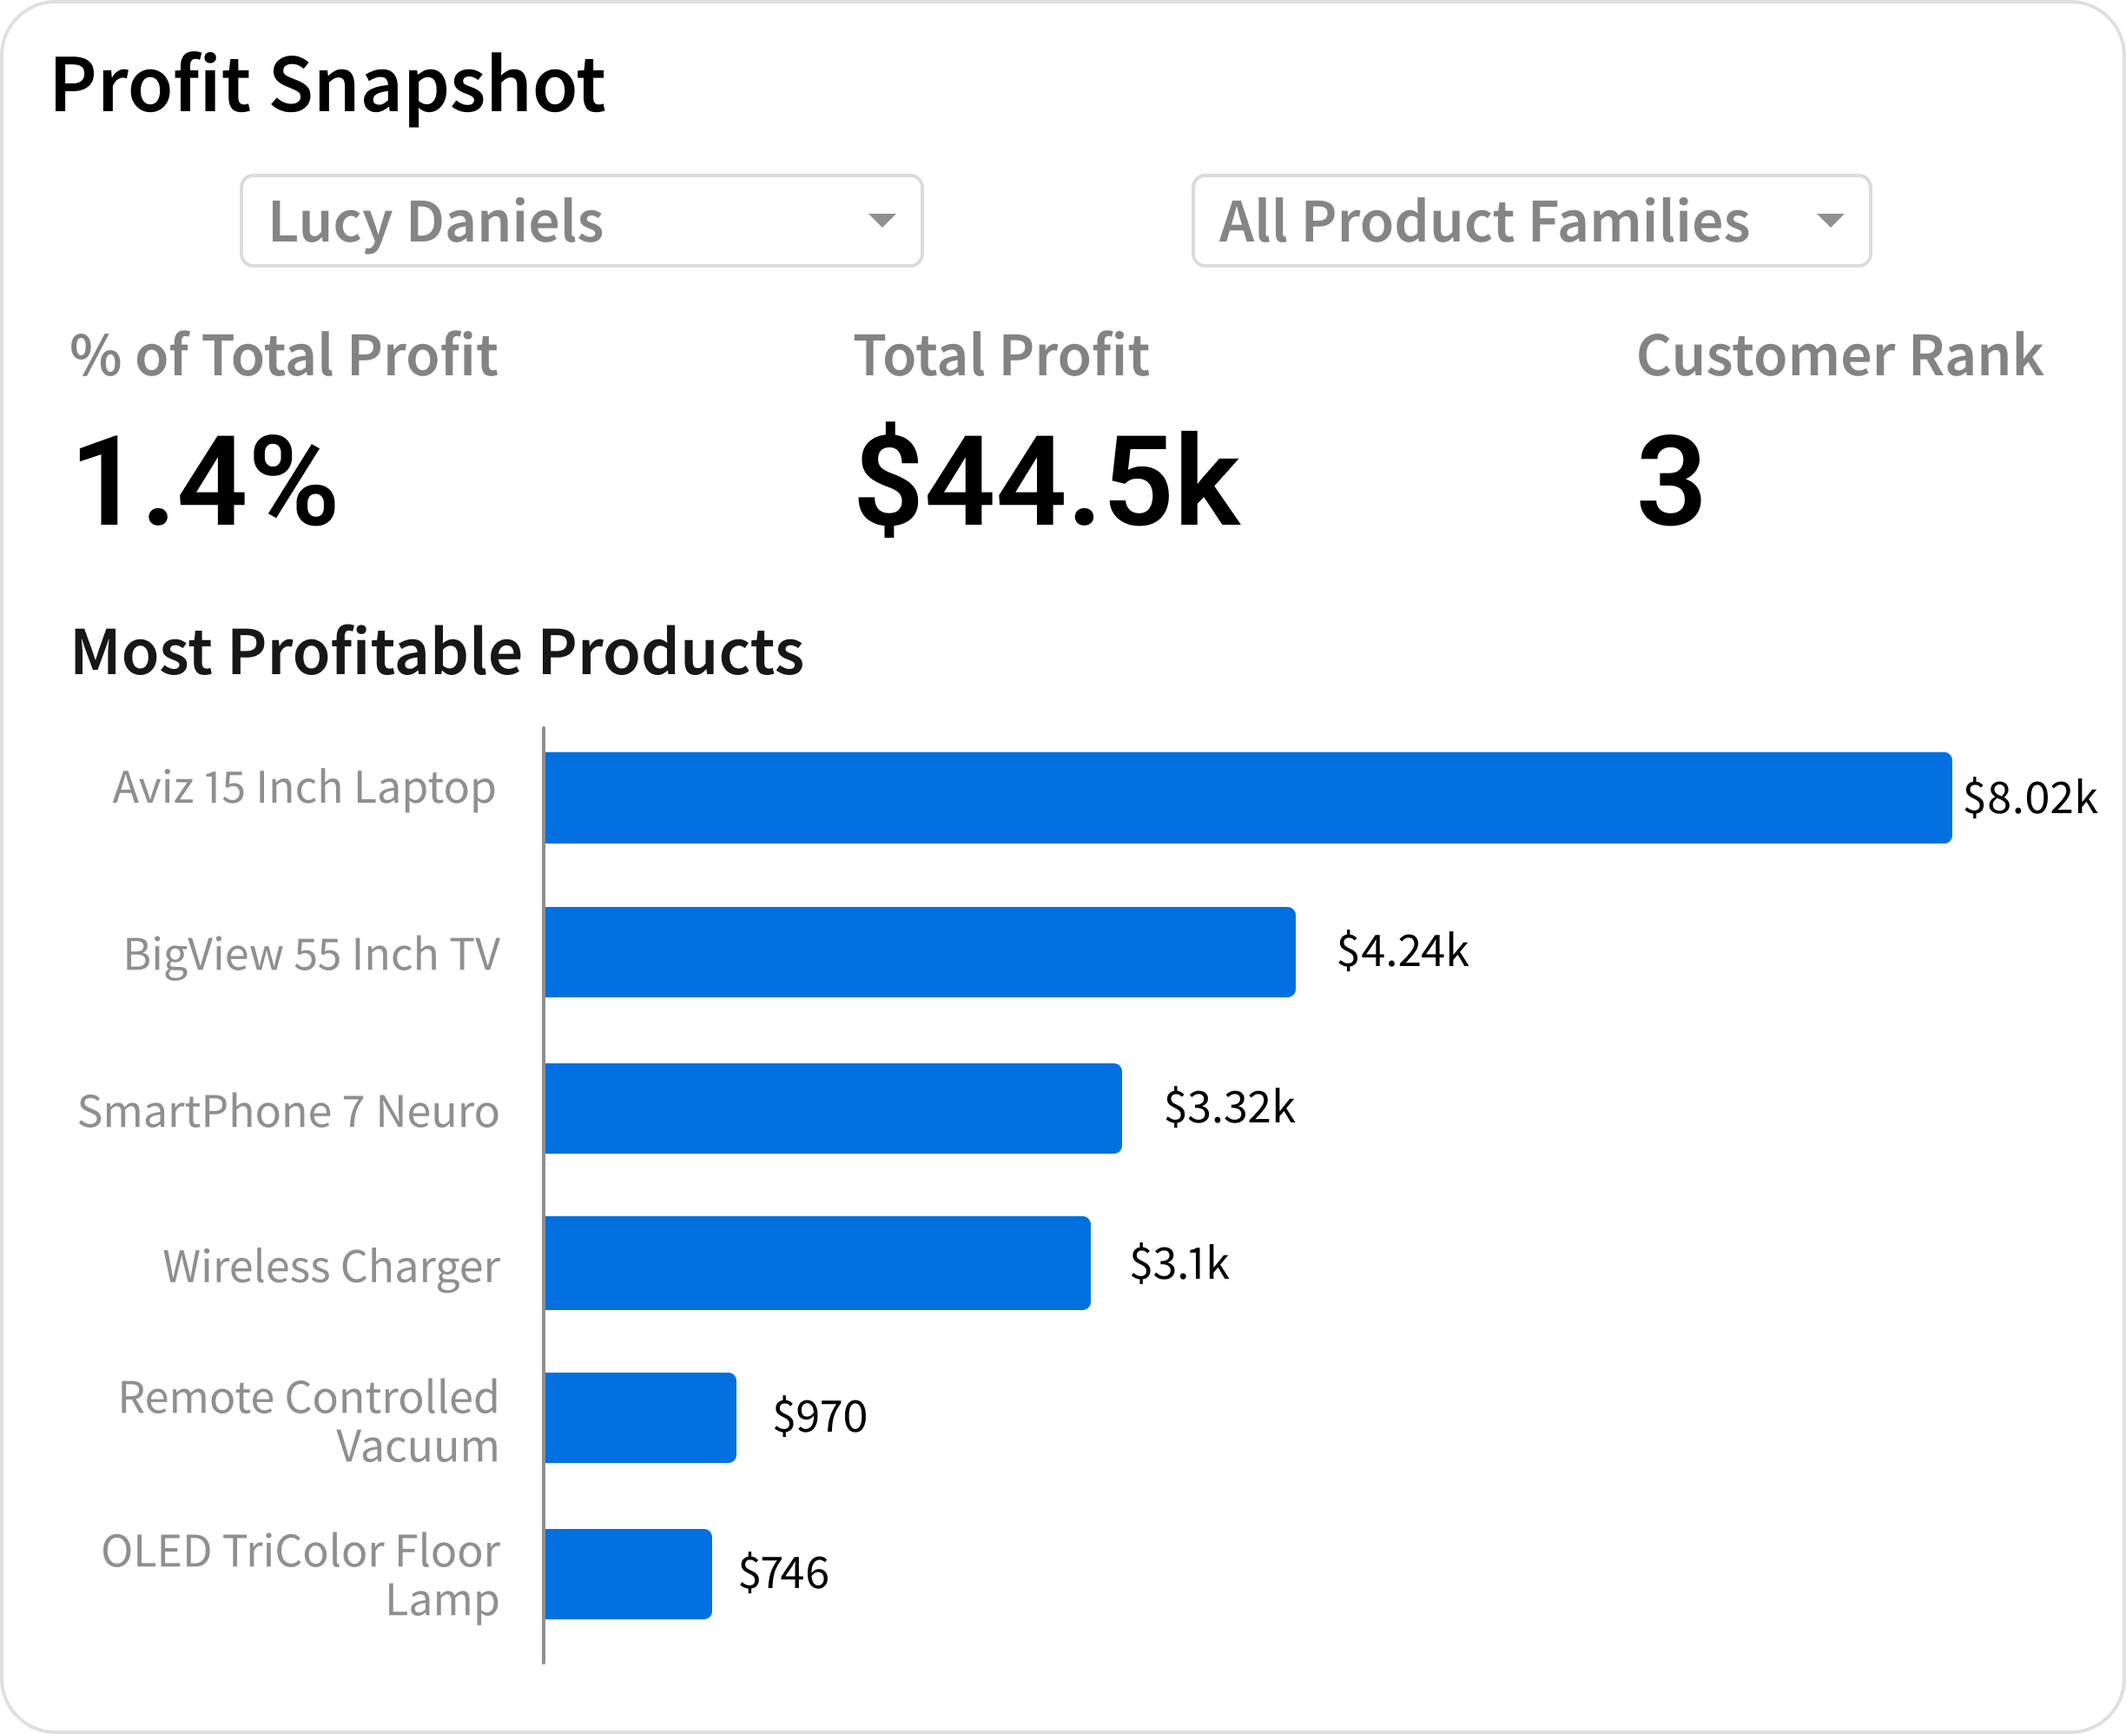
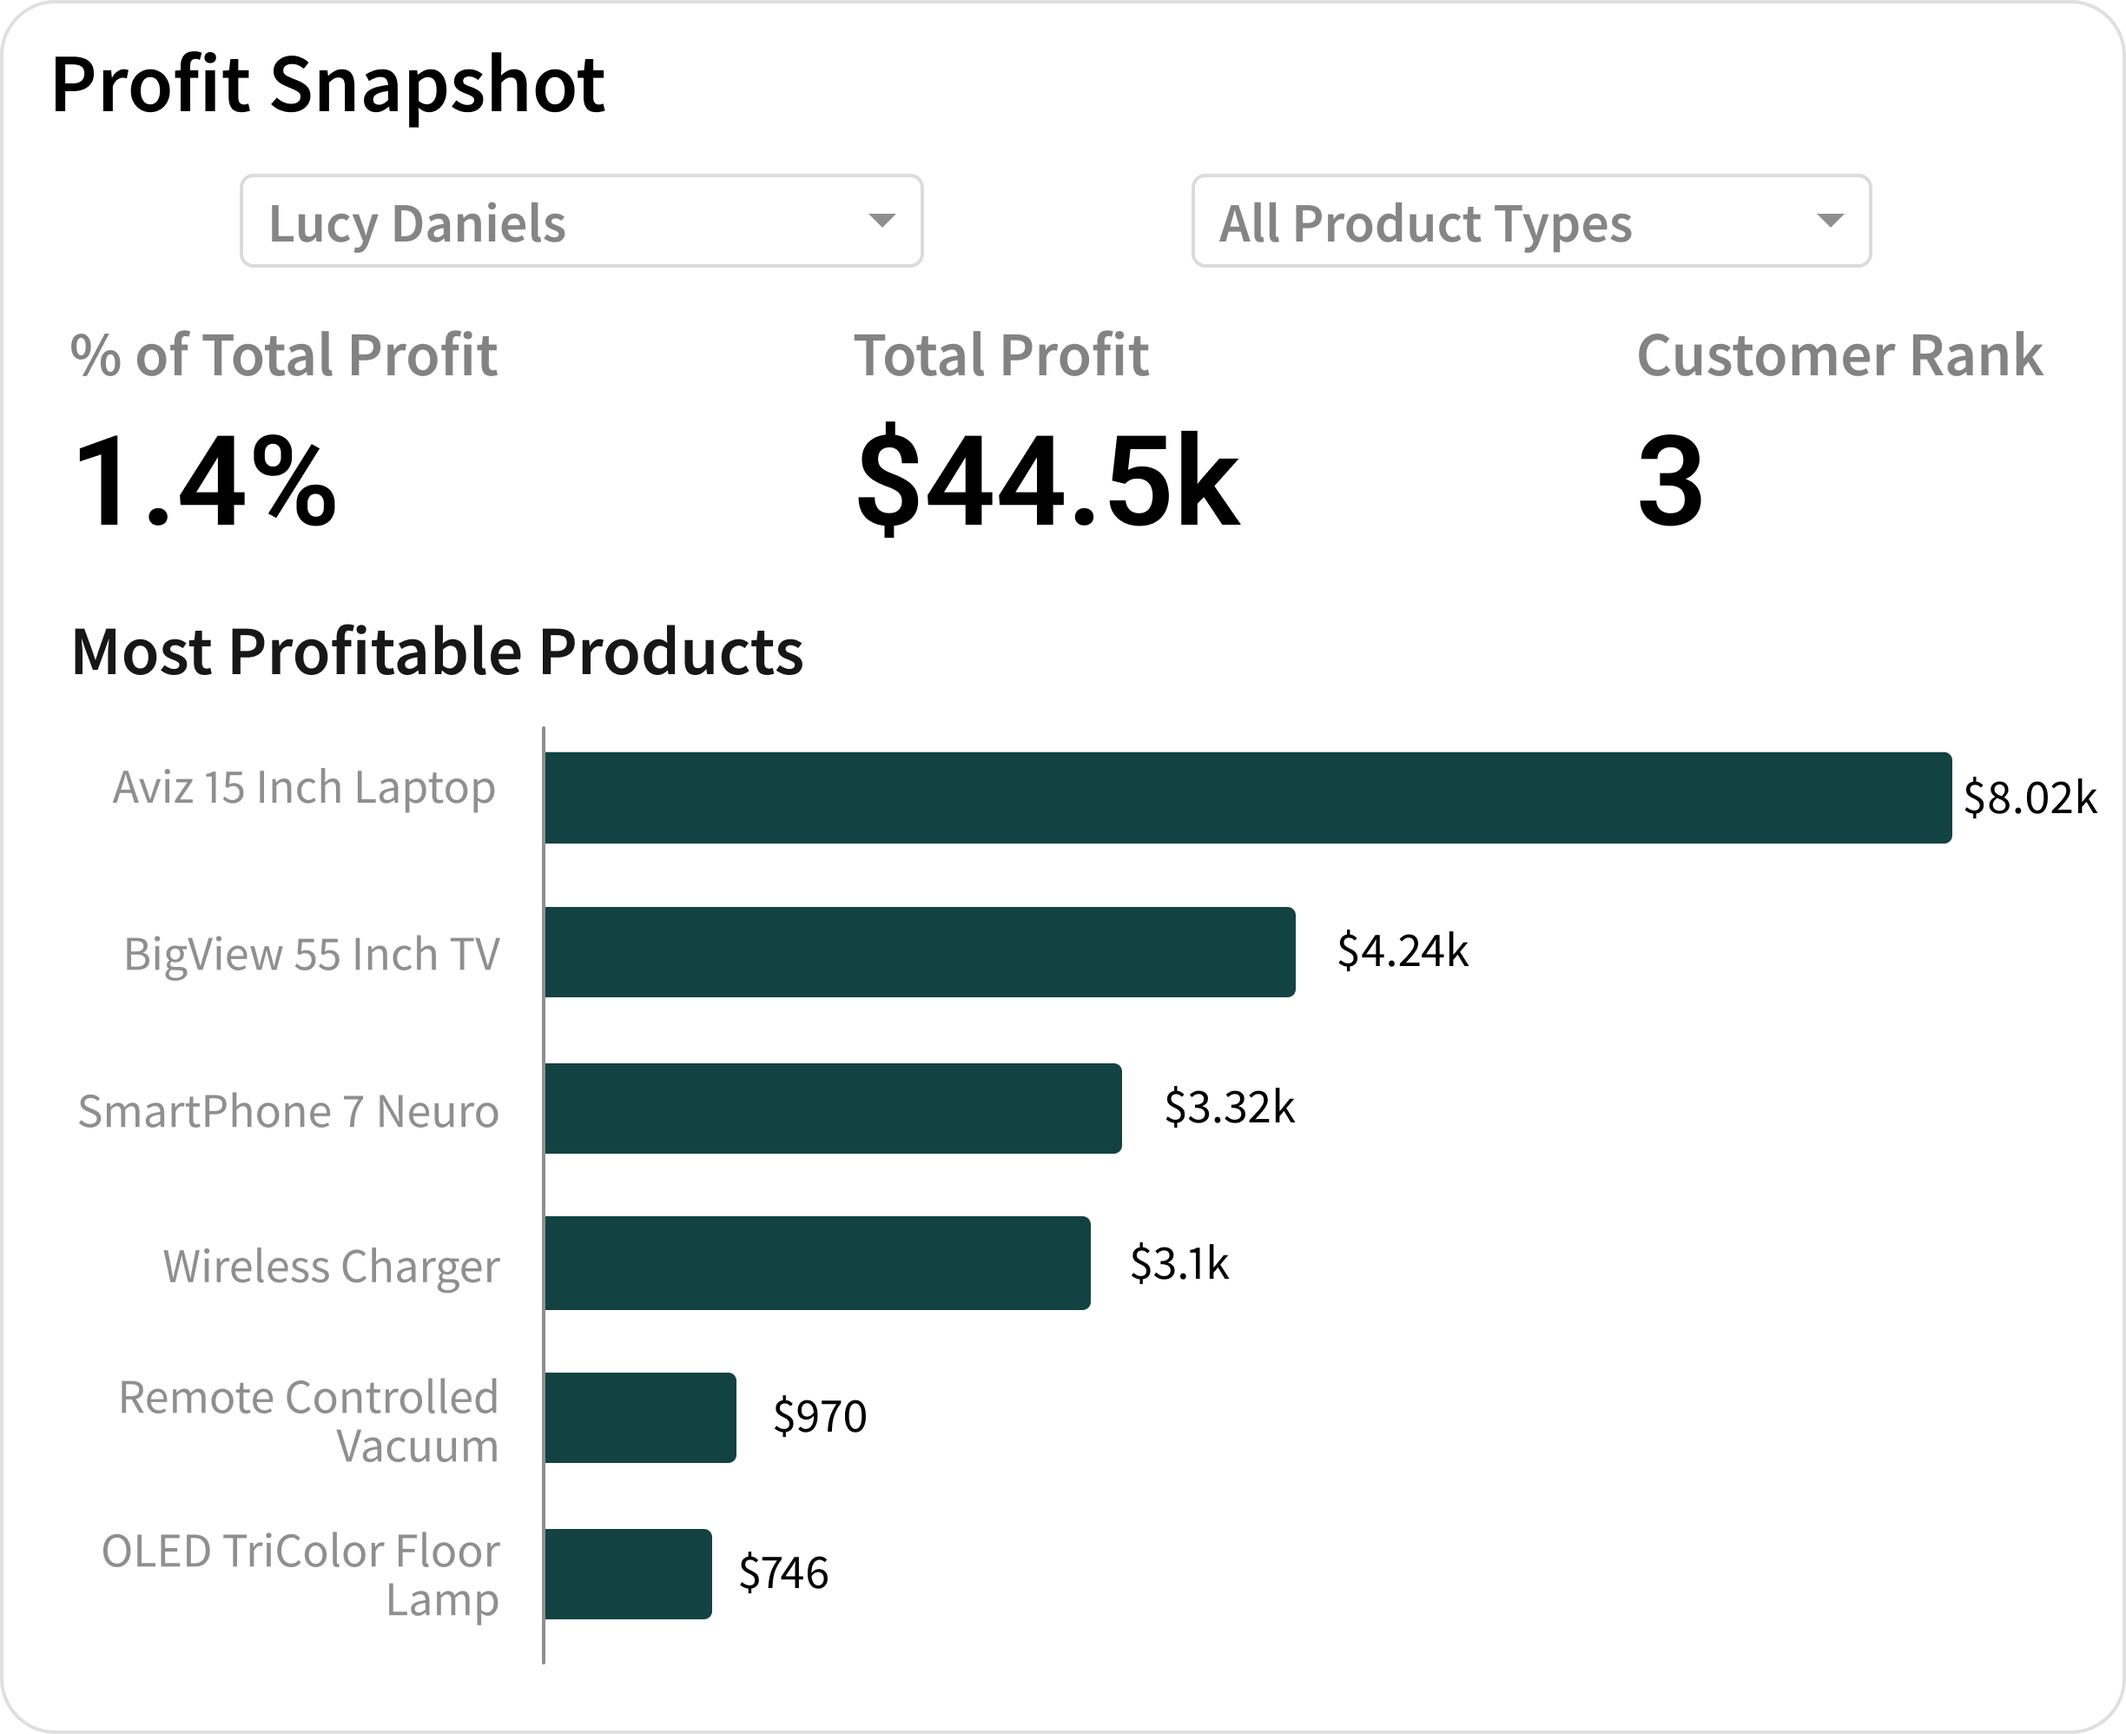
updated summary page pngs
made bar charts green and decreased font size in filters; renamed some files

Changed region(s): [[0.2484, 0.4349, 0.9314, 0.9319], [0.5899, 0.0932, 0.8382, 0.1553], [0.1242, 0.0932, 0.2794, 0.1553]]

diff --git a/src/components/summaryPage/SummaryPage.js b/src/components/summaryPage/SummaryPage.js
@@ -8,8 +8,8 @@ import CustomerKPIPNG from './images/CustomerKPI.png';
 import ProfitEmbedMainPNG from './images/ProfitEmbed_Main.png';
 import ProfitEmbedCustomerDropdownPNG from './images/ProfitEmbed_Customers_Dropdown.png';
 import ProfitEmbedNickHolmesPNG from './images/ProfitEmbed_Nick_Holmes.png';
-import ProfitEmbedLucyDanielsPNG from './images/ProfitEmbed_Lucy_Daniels.png';
-import ProfitEmbedProductFamilyDropdownPNG from './images/ProfitEmbed_Product_Family_Dropdown.png';
+import ProfitEmbedLucyDanielsComputersPNG from './images/ProfitEmbed_Lucy_Daniels_Computers.png';
+import ProfitEmbedProductTypeDropdownPNG from './images/ProfitEmbed_Product_Type_Dropdown.png';
 import ProfitEmbedCustomersFamilyPNG from './images/ProfitEmbed_Computers.png';
 
 // Table Import
@@ -38,11 +38,11 @@ export const SummaryPage = ({ currStep, nextStep, nextPage }) => {
         )
     } else if (currStep === 3) {
         return (
-            <img src={ProfitEmbedLucyDanielsPNG} style={{width: "612px"}}/>
+            <img src={ProfitEmbedLucyDanielsComputersPNG} style={{width: "612px"}}/>
         )
     } else if (currStep === 4) {
         return (
-            <img src={ProfitEmbedProductFamilyDropdownPNG} style={{width: "612px"}}/>
+            <img src={ProfitEmbedProductTypeDropdownPNG} style={{width: "612px"}}/>
         )
     } else if (currStep >= 5) {
         return (
